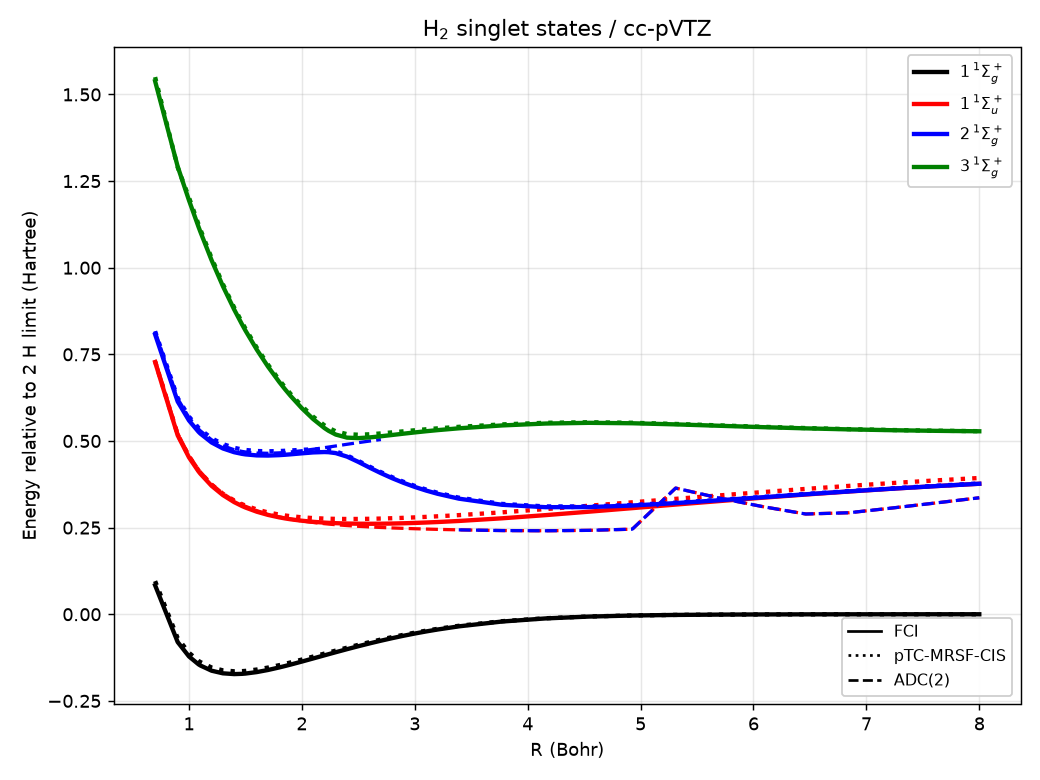
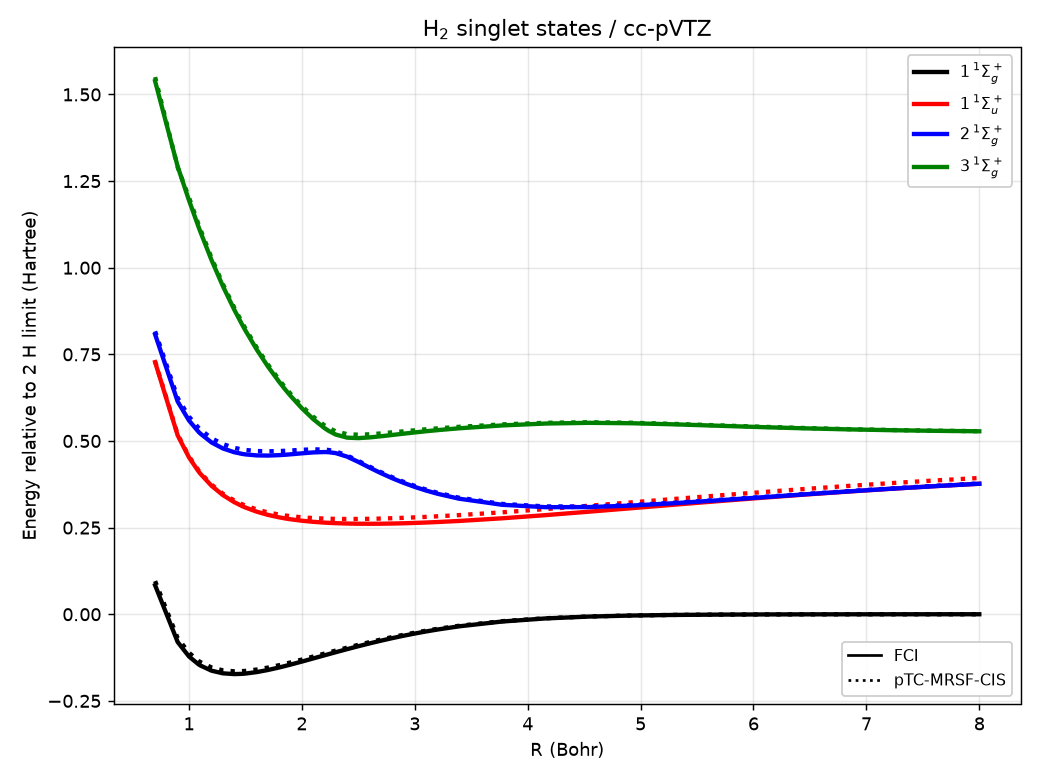
H2 PES: remove ADC(2), keep FCI vs pTC-MRSF-CIS
Claude-Session: https://claude.ai/code/session_0139boNtUziK95JMQzoX285G

diff --git a/tests/ptc_mrsf/prototype/pes_h2.py b/tests/ptc_mrsf/prototype/pes_h2.py
@@ -1,16 +1,15 @@
 """
 H2 dissociation, singlet states, cc-pVTZ. Energies relative to the S0 (X 1Sg+)
-dissociation limit (-> 0). Three methods, same color per state:
-    FCI  : solid     pTC-MRSF-CIS : dotted     ADC(2) : dashed
+dissociation limit (-> 0). Two methods, same color per state:
+    FCI  : solid     pTC-MRSF-CIS : dotted
 
 States (all singlets):
     S0 = 1 ^1Sigma_g^+ (X)            S1 = 1 ^1Sigma_u^+ (B)
-    S2 = ^1Sigma_g^+ Rydberg (E/EF)   S3 = ^1Sigma_g^+ doubly-excited (sigma_u^2)
-S3 is HIGH at short R (sigma_u^2 is a double excitation) and descends; it is a
-multireference state that FCI and pTC-MRSF-CIS capture but ADC(2) (singles)
-cannot. S3 is identified by its sigma_u^2 character, not by energy order.
+    S2 = 2 ^1Sigma_g^+ (Rydberg E/EF) S3 = 3 ^1Sigma_g^+ (doubly-exc sigma_u^2)
+S3 is HIGH at short R (sigma_u^2 is a double excitation) and descends; FCI and
+pTC-MRSF-CIS both capture this multireference state.
 
-FCI and ADC(2) are standard pyscf; pTC-MRSF-CIS is this repo's reference code.
+FCI is standard pyscf; pTC-MRSF-CIS is this repo's reference code.
 
 Run:  python3 pes_h2.py  ->  pes_h2.png
 """
@@ -225,19 +224,15 @@ def main():
     shift = EF[-1, 0]                                 # S0 dissociation limit
 
     plt.figure(figsize=(8, 6))
-    AD[:, 3] = np.nan          # ADC(2) cannot represent the sigma_u^2 double (S3)
     for k in range(4):
         c = COLORS[k]
         plt.plot(Rs, EF[:, k] - shift, '-', color=c, lw=2.4, label=LABELS[k])
         if not ONLY_FCI:
             plt.plot(Rs, PT[:, k] - shift, ':', color=c, lw=2.4)
-            if k in (1, 2):                    # ADC(2): singly-excited states only
-                plt.plot(Rs, AD[:, k] - shift, '--', color=c, lw=1.8)
     # legend: states (color) + methods (style)
     from matplotlib.lines import Line2D
     style = [Line2D([0], [0], color='k', ls='-', label='FCI'),
-             Line2D([0], [0], color='k', ls=':', label='pTC-MRSF-CIS'),
-             Line2D([0], [0], color='k', ls='--', label='ADC(2)')]
+             Line2D([0], [0], color='k', ls=':', label='pTC-MRSF-CIS')]
     leg1 = plt.legend(loc='upper right', framealpha=0.95, fontsize=9)
     plt.gca().add_artist(leg1)
     if not ONLY_FCI: